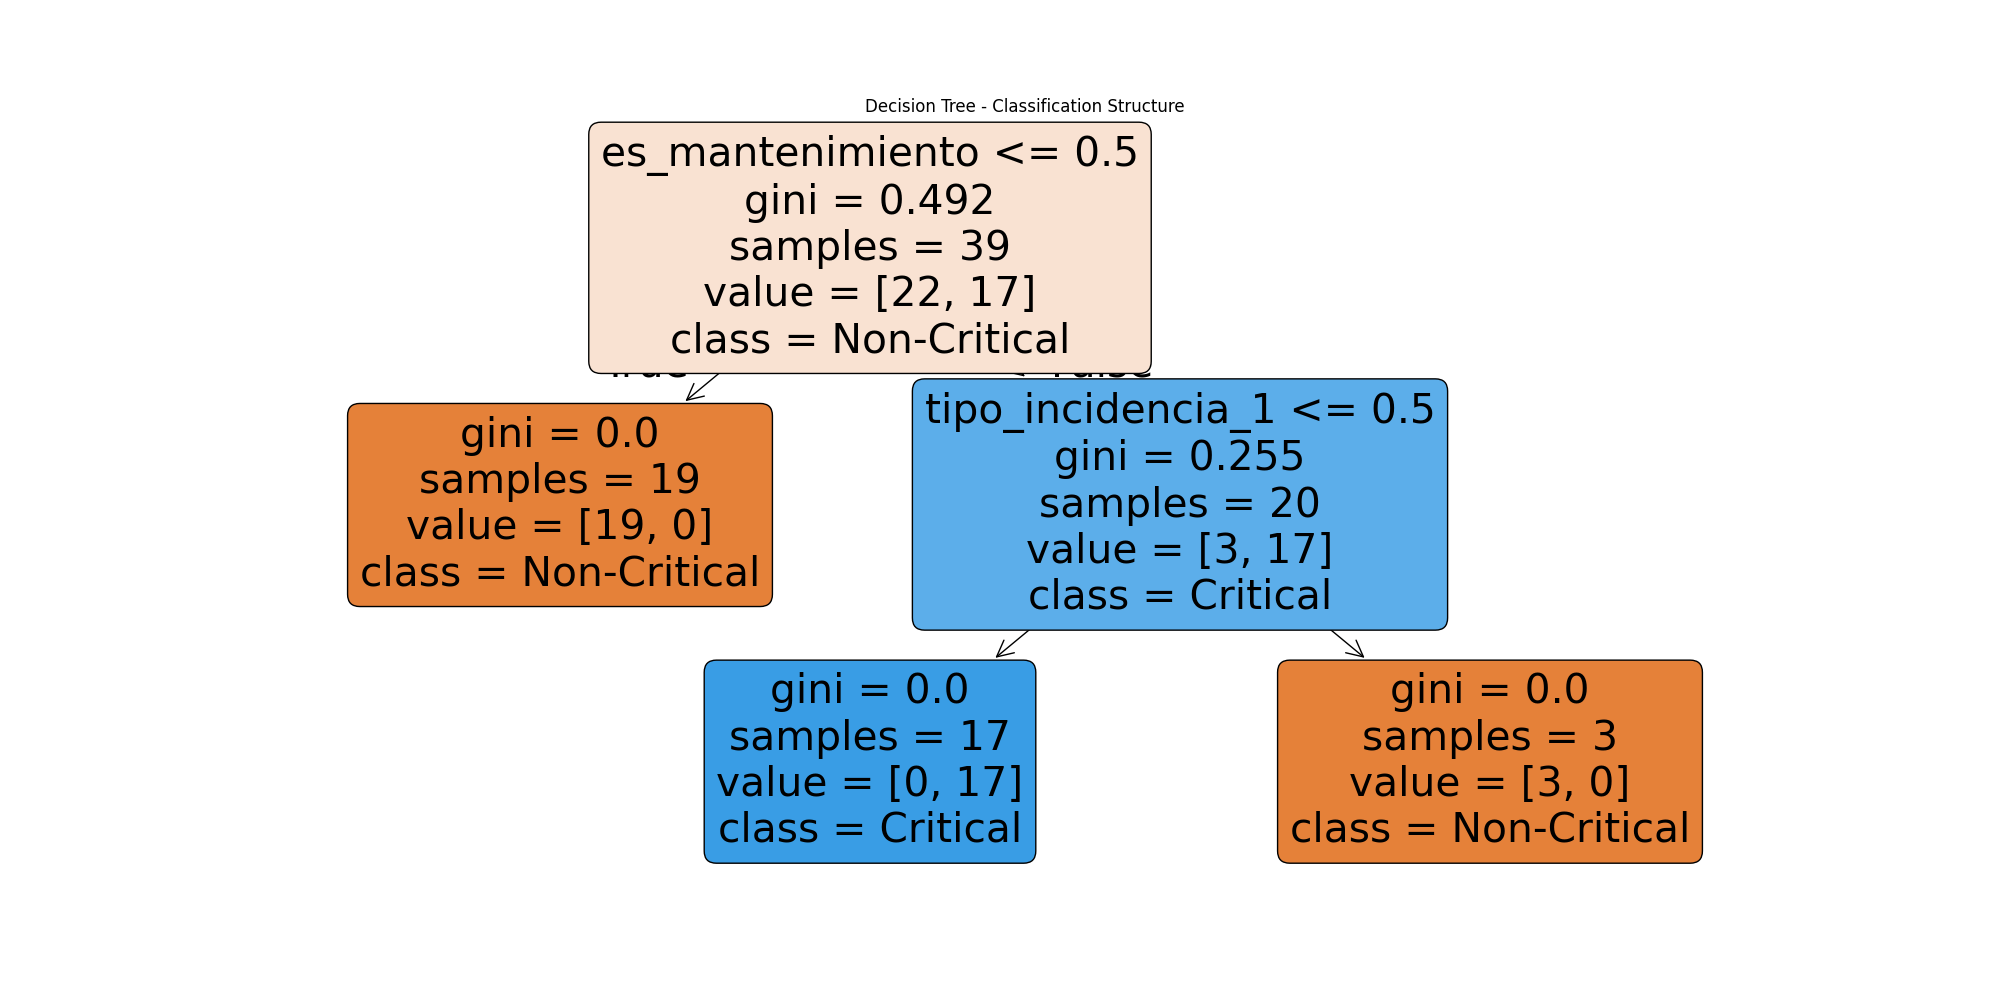
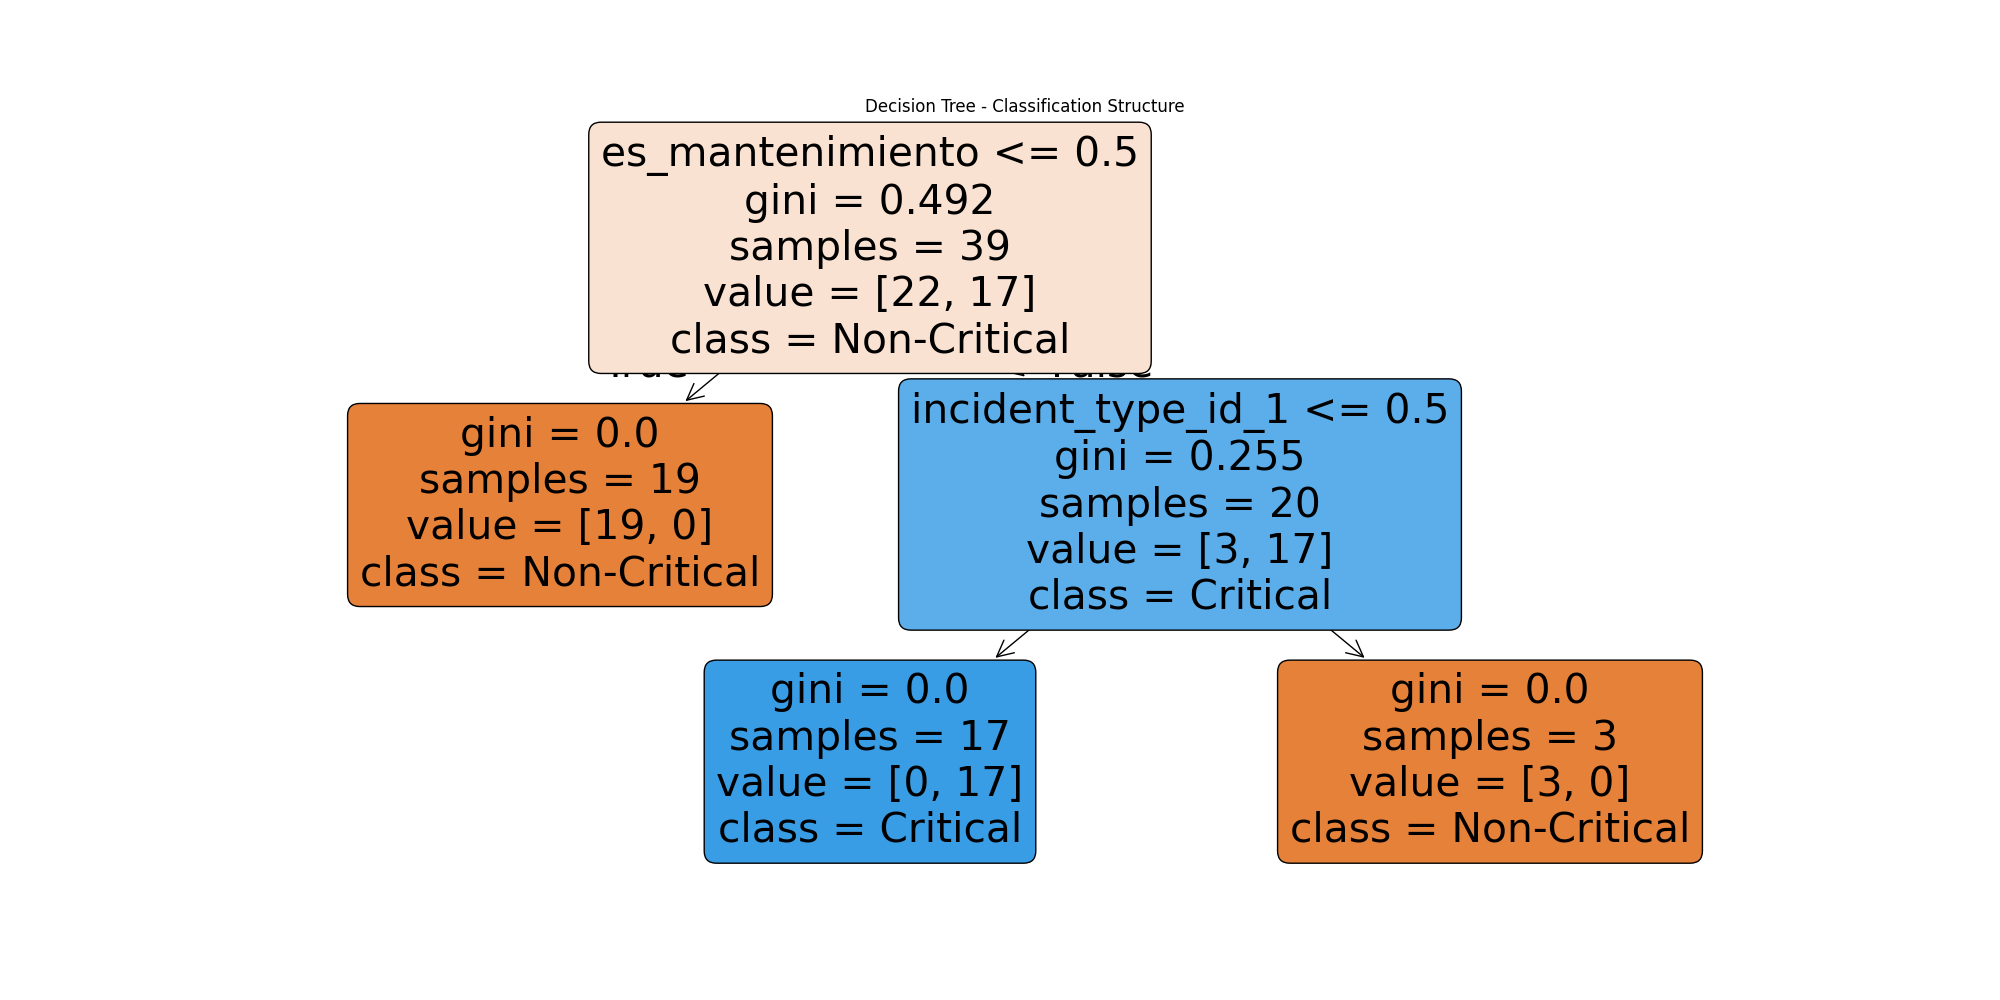
Predict improved

Changed region(s): [[0.434, 0.372, 0.744, 0.62]]

diff --git a/templates/predict.html b/templates/predict.html
@@ -1,29 +1,21 @@
 <!DOCTYPE html>
 <html lang="es">
 <head>
-    <meta charset="UTF-8">
-    <meta name="viewport" content="width=device-width, initial-scale=1.0">
-    <title>CMI - Predicción</title>
+    <title>CMI</title>
     <link rel="stylesheet" href="{{ url_for('static', filename='styles.css') }}">
-    <link href="https://cdn.jsdelivr.net/npm/bootstrap@5.3.0/dist/css/bootstrap.min.css" rel="stylesheet" integrity="sha384-9ndCyUa6dqO2HStjAUH8WZq0htnLMw7Xgk4lRO//CW2jE7P1Xat+75vvoBxF3c2X" crossorigin="anonymous">
 </head>
 <body>
 
-    <nav class="navbar navbar-expand-lg navbar-light bg-light px-4">
-        <a href="{{ url_for('index') }}" class="navbar-brand">CMI</a>
-        <div class="collapse navbar-collapse">
-            <ul class="navbar-nav me-auto mb-2 mb-lg-0">
-                <li class="nav-item">
-                    <a href="{{ url_for('index') }}" class="nav-link">Home</a>
-                </li>
-                <li class="nav-item">
-                    <a href="{{ url_for('exercise1') }}" class="nav-link">Top</a>
-                </li>
-                <li class="nav-item">
-                    <a href="{{ url_for('predict') }}" class="nav-link active">Predicción</a>
-                </li>
-            </ul>
-        </div>
+    <nav class="navbar">
+        <a href="{{ url_for('index') }}" class="btn">Home</a>
+        <a href="{{ url_for('exercise1') }}" class="btn">Dashboard</a>
+        <a href="{{ url_for('last_cves') }}" class="btn">Top10 Vulnerabilidades</a>
+        <a href="{{ url_for('extra_metrics') }}" class="btn">More Metrics</a>
+        <a href="{{ url_for('cve_info') }}" class="btn">Get more data from API</a>
+        <a href="{{ url_for('predict') }}" class="btn">Predict</a>
+        {% if session.get('usuario') %}
+        <a href="{{ url_for('logout') }}" class="btn logout-btn">Logout</a>
+        {% endif %}
     </nav>
 
     <div class="container mt-5">
@@ -40,8 +32,8 @@
             </div>
 
             <div class="mb-3">
-                <label for="tipo_incidencia" class="form-label">Tipo de Incidencia</label>
-                <select class="form-select" id="tipo_incidencia" name="tipo_incidencia">
+                <label for="incident_type_id" class="form-label">Tipo de Incidencia</label>
+                <select class="form-select" id="incident_type_id" name="incident_type_id">
                     <option value="1">Hardware</option>
                     <option value="2">Software</option>
                     <option value="3">Red</option>

diff --git a/templates/index.html b/templates/index.html
@@ -12,6 +12,7 @@
         <a href="{{ url_for('last_cves') }}" class="btn">Top10 Vulnerabilidades</a>
         <a href="{{ url_for('extra_metrics') }}" class="btn">More Metrics</a>
         <a href="{{ url_for('cve_info') }}" class="btn">Get more data from API</a>
+        <a href="{{ url_for('predict') }}" class="btn">Predict</a>
         {% if session.get('usuario') %}
         <a href="{{ url_for('logout') }}" class="btn logout-btn">Logout</a>
         {% endif %}

diff --git a/utils/service.py b/utils/service.py
@@ -179,38 +179,50 @@ def tickets_per_weekday():
     }
 
 def load_and_preprocess_data():
-    # Load data from JSON
+    """
+    Carga los datos desde la base de datos tickets.db y los prepara para modelos ML.
+    Usa las columnas: es_mantenimiento, incident_type_id, satisfaccion, es_critico.
+    """
     base_dir = os.path.dirname(os.path.dirname(__file__))
-    json_path = os.path.join(base_dir, 'data', 'data_clasified.json')
-    with open(json_path, 'r') as f:
-        data = json.load(f)
-    tickets = data['tickets_emitidos']
+    db_path = os.path.join(base_dir, 'data', 'tickets.db')
+    conn = sqlite3.connect(db_path)
+    query = """
+        SELECT
+            es_mantenimiento,
+            incident_type_id,
+            satisfaccion,
+            es_critico
+        FROM tickets
+    """
+    df = pd.read_sql_query(query, conn)
+    conn.close()
 
-    # Extract features and labels
+    # Extraer características y etiquetas
     features = []
     labels = []
-    for ticket in tickets:
+    for _, row in df.iterrows():
         feature = [
-            1 if ticket['es_mantenimiento'] else 0,
-            ticket['tipo_incidencia'],
-            ticket['satisfaccion_cliente']
+            int(row['es_mantenimiento']),
+            int(row['incident_type_id']),
+            int(row['satisfaccion'])
         ]
         features.append(feature)
-        labels.append(1 if ticket['es_critico'] else 0)
+        labels.append(int(row['es_critico']))
 
-    # Convert to DataFrame
-    df = pd.DataFrame(features, columns=['es_mantenimiento', 'tipo_incidencia', 'satisfaccion_cliente'])
+    # Convertir a DataFrame
+    df_features = pd.DataFrame(features, columns=['es_mantenimiento', 'incident_type_id', 'satisfaccion_cliente'])
     y = pd.Series(labels)
 
-    # One-hot encode 'tipo_incidencia'
-    encoder = OneHotEncoder(categories=[[1,2,3,4,5]], sparse_output=False)
-    tipo_incidencia_encoded = encoder.fit_transform(df[['tipo_incidencia']])
-    tipo_incidencia_df = pd.DataFrame(tipo_incidencia_encoded, columns=encoder.get_feature_names_out(['tipo_incidencia']))
+    # One-hot encode 'incident_type_id'
+    incident_types = sorted(df_features['incident_type_id'].unique())
+    encoder = OneHotEncoder(categories=[incident_types], sparse_output=False)
+    incident_type_encoded = encoder.fit_transform(df_features[['incident_type_id']])
+    incident_type_df = pd.DataFrame(incident_type_encoded, columns=encoder.get_feature_names_out(['incident_type_id']))
 
-    # Combine encoded features
-    X = pd.concat([df[['es_mantenimiento', 'satisfaccion_cliente']], tipo_incidencia_df], axis=1)
+    # Combinar características codificadas
+    X = pd.concat([df_features[['es_mantenimiento', 'satisfaccion_cliente']], incident_type_df], axis=1)
 
-    # Split into training and testing sets
+    # Dividir en conjuntos de entrenamiento y prueba
     X_train, X_test, y_train, y_test = train_test_split(X, y, test_size=0.2, random_state=42)
     return X_train, X_test, y_train, y_test, encoder
 
@@ -288,17 +300,17 @@ def predict_ticket_criticality(model, encoder, ticket_data):
     # Preprocess new ticket
     feature = [
         1 if ticket_data['es_mantenimiento'] else 0,
-        ticket_data['tipo_incidencia'],
+        ticket_data['incident_type_id'],
         ticket_data['satisfaccion_cliente']
     ]
-    input_df = pd.DataFrame([feature], columns=['es_mantenimiento', 'tipo_incidencia', 'satisfaccion_cliente'])
+    input_df = pd.DataFrame([feature], columns=['es_mantenimiento', 'incident_type_id', 'satisfaccion_cliente'])
 
-    # One-hot encode 'tipo_incidencia'
-    tipo_incidencia_encoded = encoder.transform(input_df[['tipo_incidencia']])
-    tipo_incidencia_df = pd.DataFrame(tipo_incidencia_encoded, columns=encoder.get_feature_names_out(['tipo_incidencia']))
+    # One-hot encode 'incident_type_id'
+    incident_type_encoded = encoder.transform(input_df[['incident_type_id']])
+    incident_type_df = pd.DataFrame(incident_type_encoded, columns=encoder.get_feature_names_out(['incident_type_id']))
 
     # Combine encoded features
-    input_df = pd.concat([input_df[['es_mantenimiento', 'satisfaccion_cliente']], tipo_incidencia_df], axis=1)
+    input_df = pd.concat([input_df[['es_mantenimiento', 'satisfaccion_cliente']], incident_type_df], axis=1)
 
     # Predict
     prediction = model.predict(input_df)[0]

diff --git a/app.py b/app.py
@@ -116,13 +116,13 @@ def predict():
 
     # Si es POST, recogemos los datos del formulario
     es_mantenimiento = 'es_mantenimiento' in request.form
-    tipo_incidencia = int(request.form.get('tipo_incidencia', 1))
+    incident_type_id = int(request.form.get('incident_type_id', 1))
     satisfaccion = int(request.form.get('satisfaccion', 5))
     method = request.form.get('ia_method', 'logistic')
 
     ticket = {
         'es_mantenimiento': es_mantenimiento,
-        'tipo_incidencia': tipo_incidencia,
+        'incident_type_id': incident_type_id,
         'satisfaccion_cliente': satisfaccion
     }
 
